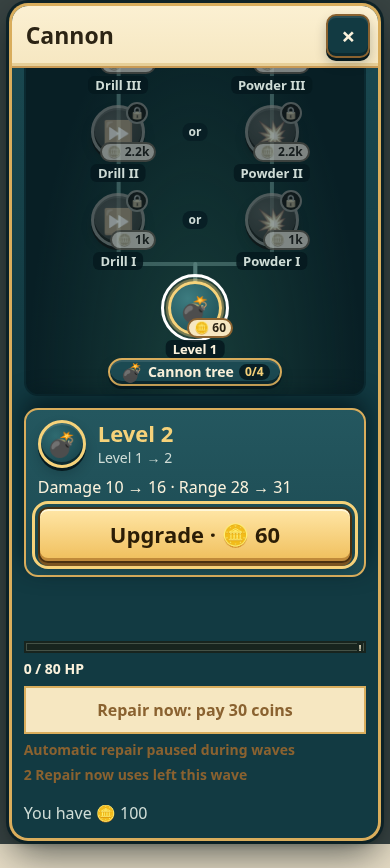
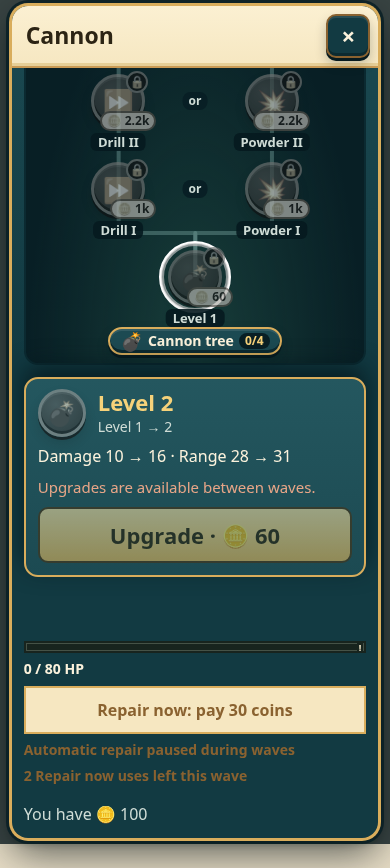
fix: clarify structure repair pause estimate

diff --git a/frontend/src/island/structure-recovery-model.js b/frontend/src/island/structure-recovery-model.js
@@ -123,7 +123,7 @@ function buildStructureRecoveryView(state, structure, options = {}) {
     repairReasonLabel: fundsReason,
     quotedPrice: fixedPrice,
     freeRepairLabel,
-    helperLabel: reserved ? null : 'Automatic repair pauses during waves',
+    helperLabel: reserved ? null : 'Free repair pauses when the bell rings. This estimate counts only time between waves.',
     automaticRepairPaused: reserved,
     statusLabel: reserved ? 'Automatic repair paused during waves' : null,
     remainingPaidUses: remainingUses,

diff --git a/frontend/tests/island/structure-recovery-model.test.js b/frontend/tests/island/structure-recovery-model.test.js
@@ -47,6 +47,7 @@ describe('structure recovery presentation', () => {
       hpLabel: '100 / 200 HP',
       repairLabel: 'Repair now: pay 40 coins',
       freeRepairLabel: 'Or wait about 5 min for free repair',
+      helperLabel: 'Free repair pauses when the bell rings. This estimate counts only time between waves.',
       automaticRepairPaused: false,
       remainingPaidUses: null,
     });

diff --git a/specs/T59-repair-feedback.md b/specs/T59-repair-feedback.md
@@ -4,8 +4,8 @@
 >
 > **Who uses it:** Ianno, the T59 agent and the recovery API/simulation implementers.
 
-- **Status:** in progress; server-backed card wiring, protocol negotiation, replay checkpoint guard and between-wave/preparation world indicators are in progress on this branch. Combat indicator and live lifecycle/two-client evidence remain pending.
-- **Branch:** `feat/t59-repair-feedback`
+- **Status:** recovery card models, server adapters, protocol negotiation, replay checkpoint guard and phase-specific world/combat indicators are present in the integrated source. This follow-up makes the between-wave ETA caveat explicit in player wording. The existing zero-HP combat marker already uses an empty track and a red `!`; no renderer change was needed. Existing screenshots and browser fixtures use offline data; live service and two-client evidence remain T60/human work.
+- **Branch:** `test/t59-repair-feedback-followup`
 - **Issue:** [#125](https://github.com/Nilsnova/The-Great-Plot-Twist/issues/125)
 
 ## Why
@@ -31,9 +31,9 @@ No backend transaction or simulation edits, Captain skill redesign or live activ
 
 ## Done when (acceptance checks)
 
-- [ ] Tests cover full/partial/zero/tiny-positive HP, every supported kind, both phases, dynamic ETA and fixed price, failed/stale/retried actions and quota exhaustion.
-- [ ] Integrated API/card behavior handles automatic completion racing paid repair, current wallet versus old receipts, phase changes, late join and reconnect.
-- [ ] Frontend tests/build and relevant two-client checks pass; desktop/phone screenshots or demo show the actual integrated UI. Player docs/tutorials match implemented behavior.
+- [ ] Focused tests cover full/partial/zero/tiny-positive HP, all six supported kinds, between-wave and reserved-wave display, server-supplied ETA/price, refusal and stale/retried request feedback, and shared-quota display. See the T59 evidence README for exact checks; fixture results do not prove server behavior.
+- [ ] Integrated signed-shape adapter coverage exercises card refresh, stale island/instance responses, the checkpoint-before-repair guard and the rule that a combat HTTP response does not patch replay HP. Automatic completion races, current wallet versus old receipts, late join and reconnect still need the T60 service/two-client evidence path.
+- [ ] Focused frontend checks and a build pass; desktop/phone captures show production UI with offline fixture data. Live service and two-client checks are not claimed. Player docs/tutorials must match the reviewed release before activation.
 - [ ] Complete diff is reviewed, remaining integration limits explicit, no secrets/unrelated files included and a different human approves before merge.
 
 ## Tests to write first
